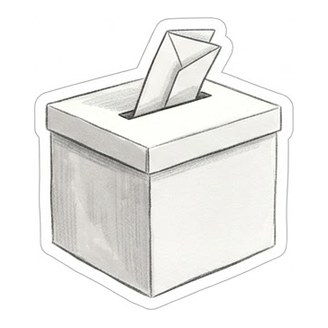
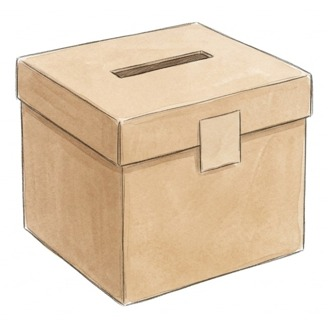
16일차 투표함: 교실에 놓이는 투표함·카드를 그림(ed_open·ed_vote)과 같은 갈색 종이 상자 투표함으로(흰 투표함이라 장면마다 바뀌어 보이던 것, API)

diff --git a/index.html b/index.html
@@ -119,14 +119,14 @@ body,button{word-break:keep-all;overflow-wrap:break-word}
 <div id="fader"></div>
 <script>
 // same address, newest version: if the page this phone has kept is older than the one online, fetch the new one and reopen
-const BUILD='1108224620';
+const BUILD='1108230140';
 try{fetch(location.pathname,{cache:'no-store'}).then(r=>r.text()).then(t=>{const m=t.match(/const BUILD='(\d+)'/);if(m&&m[1]!==BUILD&&sessionStorage.getItem('upd')!==m[1]){sessionStorage.setItem('upd',m[1]);fetch(location.pathname,{cache:'reload'}).then(()=>location.reload())}}).catch(()=>{})}catch(e){}
 </script>
-<script src="i18n.js?v=1108224620"></script>
-<script src="i18n_prologue_v2.js?v=1108224620"></script>
-<script src="day2/i18n_engine.js?v=1108224620"></script>
-<script src="day2/data.js?v=1108224620"></script>
-<script src="day3/data.js?v=1108224620"></script>
+<script src="i18n.js?v=1108230140"></script>
+<script src="i18n_prologue_v2.js?v=1108230140"></script>
+<script src="day2/i18n_engine.js?v=1108230140"></script>
+<script src="day2/data.js?v=1108230140"></script>
+<script src="day3/data.js?v=1108230140"></script>
 <script>
 // ---------- data ----------
 const MW=1672,MH=941,KID=180;
@@ -569,36 +569,36 @@ function pickHero(){const m=document.getElementById('modal'),c=document.getEleme
  c.innerHTML=`<h2>${tr('전학생 반장되기')}</h2><p>${tr('한국말이 아직 서툰 전학생,<br>반장 선거에 나가다.')}</p><p style="margin-top:14px">${tr('누구로 할까요?')}</p>${(()=>{const s=loadSave();return s&&s.day>=2&&s.mode===UI+'-'+LANG?`<p><button class="big" id="cont">${tr('{n}일차부터 이어 하기').replace('{n}',s.day)}</button></p>`:''})()}<div class="pick heroes"><button data-h="hero_f"><img src="faces/hero_f_smile.jpg" alt="여자 주인공">${heroName(1)}</button><button data-h="hero_m"><img src="faces/hero_m_smile.jpg" alt="남자 주인공">${heroName(0)}</button></div>`;
  m.classList.add('on');{const cb=document.getElementById('cont');if(cb)cb.onclick=()=>{const s=loadSave();HERO=s.hero;Object.assign(HEART,s.heart||{});(s.found||[]).forEach(k=>FOUND.add(k));HEART_D1={...HEART};chime();(typeof contGame==='function'?contGame(s):startDay(Math.min(s.day,Object.keys(window.D3||{}).length?3:2)))}}c.querySelectorAll('.pick button').forEach(b=>b.onclick=()=>{HERO=b.dataset.h;m.classList.remove('on');chime();bgm('day');load('home_am');say([['nar','','이사 온 다음 날 아침. 아직 풀지 못한 상자들이 쌓여 있다.'],['think','sad','(오늘부터 새 학교야. 여기 말도 아직 서툰데…….)'],['think','smile','({m}한테 인사하고 학교 가야지.)']],morning)})}
 </script>
-<script src="day2/engine.js?v=1108224620"></script>
-<script src="day2/ep_minho.js?v=1108224620"></script>
-<script src="day2/meet.js?v=1108224620"></script>
-<script src="day2/ep_sua.js?v=1108224620"></script>
-<script src="day2/ep_hangyeol.js?v=1108224620"></script>
-<script src="day2/ep_siwoo.js?v=1108224620"></script>
-<script src="day2/ep_haram.js?v=1108224620"></script>
-<script src="day2/ep_jiho.js?v=1108224620"></script>
-<script src="day2/ep_hyeeun.js?v=1108224620"></script>
-<script src="day2/ep_haneul.js?v=1108224620"></script>
-<script src="day2/ep_junho.js?v=1108224620"></script>
-<script src="day2/ep_yuna.js?v=1108224620"></script>
-<script src="day2/ep_yena.js?v=1108224620"></script>
-<script src="day2/ep_haeun.js?v=1108224620"></script>
-<script src="day2/ep_youngmin.js?v=1108224620"></script>
-<script src="day2/ep_seah.js?v=1108224620"></script>
-<script src="day2/ep_jihoon.js?v=1108224620"></script>
-<script src="words_ja_ru.js?v=1108224620"></script>
-<script src="day2/mybag.js?v=1108224620"></script>
-<script src="day2/wordpics.js?v=1108224620"></script>
-<script src="day2/spots.js?v=1108224620"></script>
-<script src="day2/textfit.js?v=1108224620"></script>
-<script src="day2/tester.js?v=1108224620"></script>
-<script src="day2/ux.js?v=1108224620"></script>
-<script src="day2/tapword.js?v=1108224620"></script>
-<script src="day2/review.js?v=1108224620"></script>
-<script src="day2/plane.js?v=1108224620"></script>
-<script src="day2/bubble.js?v=1108224620"></script>
-<script src="day2/ep_ending.js?v=1108224620"></script>
-<script src="day2/ending.js?v=1108224620"></script>
+<script src="day2/engine.js?v=1108230140"></script>
+<script src="day2/ep_minho.js?v=1108230140"></script>
+<script src="day2/meet.js?v=1108230140"></script>
+<script src="day2/ep_sua.js?v=1108230140"></script>
+<script src="day2/ep_hangyeol.js?v=1108230140"></script>
+<script src="day2/ep_siwoo.js?v=1108230140"></script>
+<script src="day2/ep_haram.js?v=1108230140"></script>
+<script src="day2/ep_jiho.js?v=1108230140"></script>
+<script src="day2/ep_hyeeun.js?v=1108230140"></script>
+<script src="day2/ep_haneul.js?v=1108230140"></script>
+<script src="day2/ep_junho.js?v=1108230140"></script>
+<script src="day2/ep_yuna.js?v=1108230140"></script>
+<script src="day2/ep_yena.js?v=1108230140"></script>
+<script src="day2/ep_haeun.js?v=1108230140"></script>
+<script src="day2/ep_youngmin.js?v=1108230140"></script>
+<script src="day2/ep_seah.js?v=1108230140"></script>
+<script src="day2/ep_jihoon.js?v=1108230140"></script>
+<script src="words_ja_ru.js?v=1108230140"></script>
+<script src="day2/mybag.js?v=1108230140"></script>
+<script src="day2/wordpics.js?v=1108230140"></script>
+<script src="day2/spots.js?v=1108230140"></script>
+<script src="day2/textfit.js?v=1108230140"></script>
+<script src="day2/tester.js?v=1108230140"></script>
+<script src="day2/ux.js?v=1108230140"></script>
+<script src="day2/tapword.js?v=1108230140"></script>
+<script src="day2/review.js?v=1108230140"></script>
+<script src="day2/plane.js?v=1108230140"></script>
+<script src="day2/bubble.js?v=1108230140"></script>
+<script src="day2/ep_ending.js?v=1108230140"></script>
+<script src="day2/ending.js?v=1108230140"></script>
 <script>
 // the goal shows big for a few seconds, then folds into a small pill (tap it to open it again)
 {const g=document.getElementById('goal');let t=null;const big=()=>{g.classList.remove('mini');clearTimeout(t);t=setTimeout(()=>g.classList.add('mini'),4000)};
